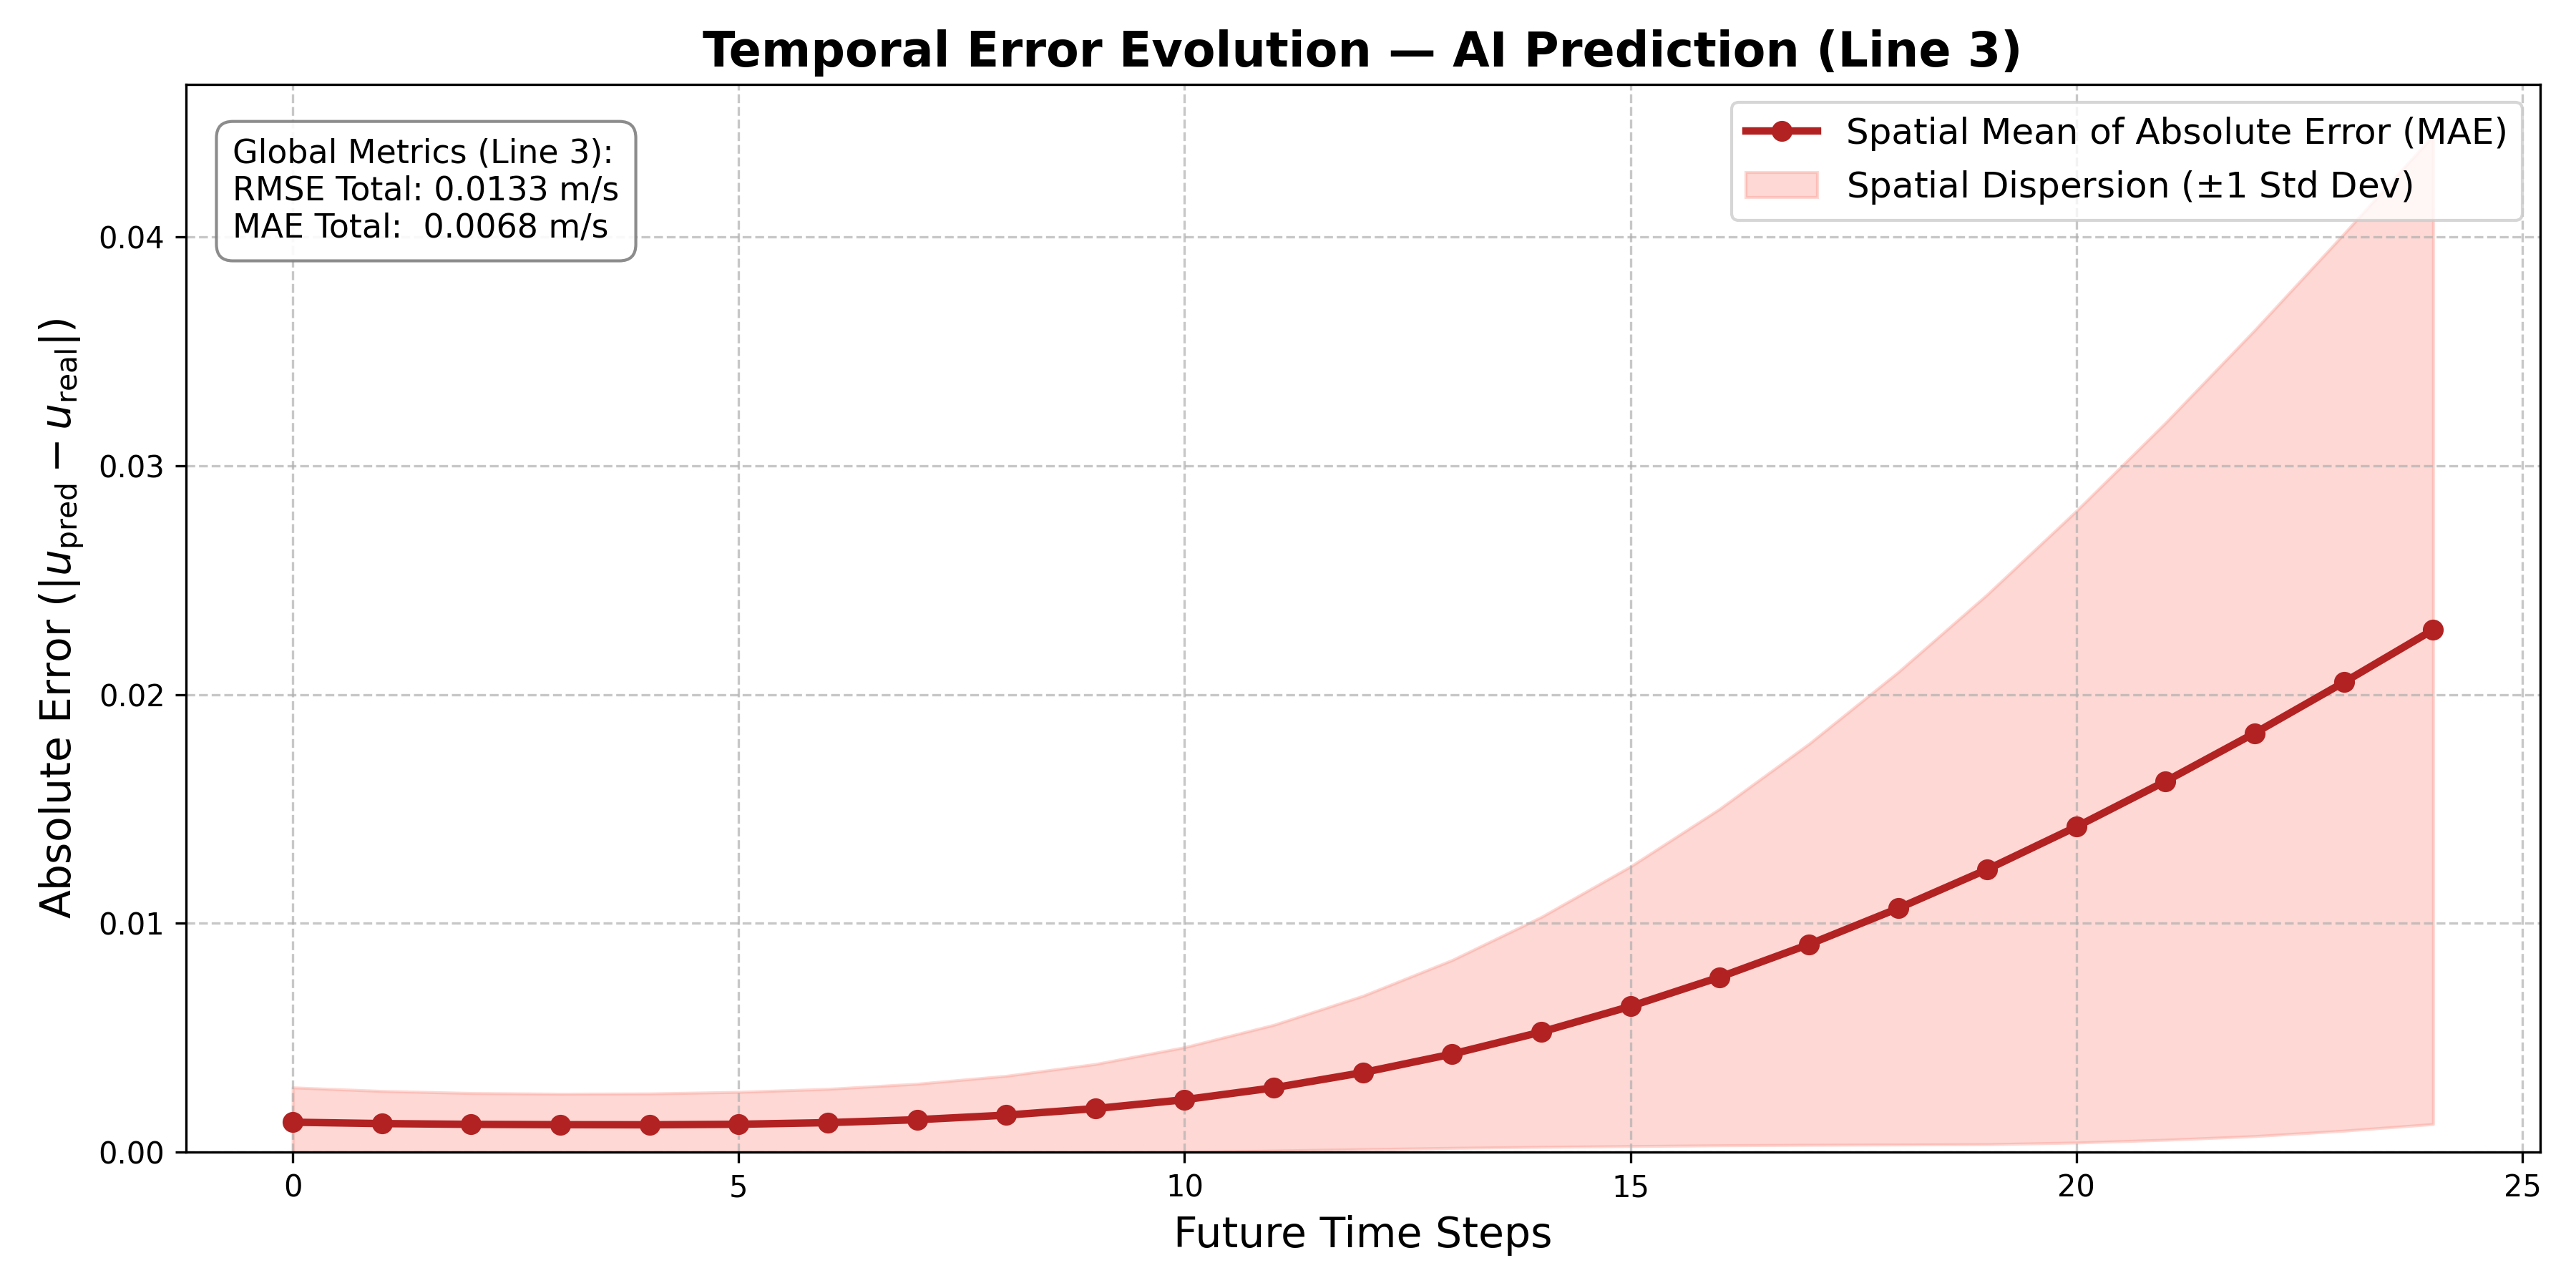
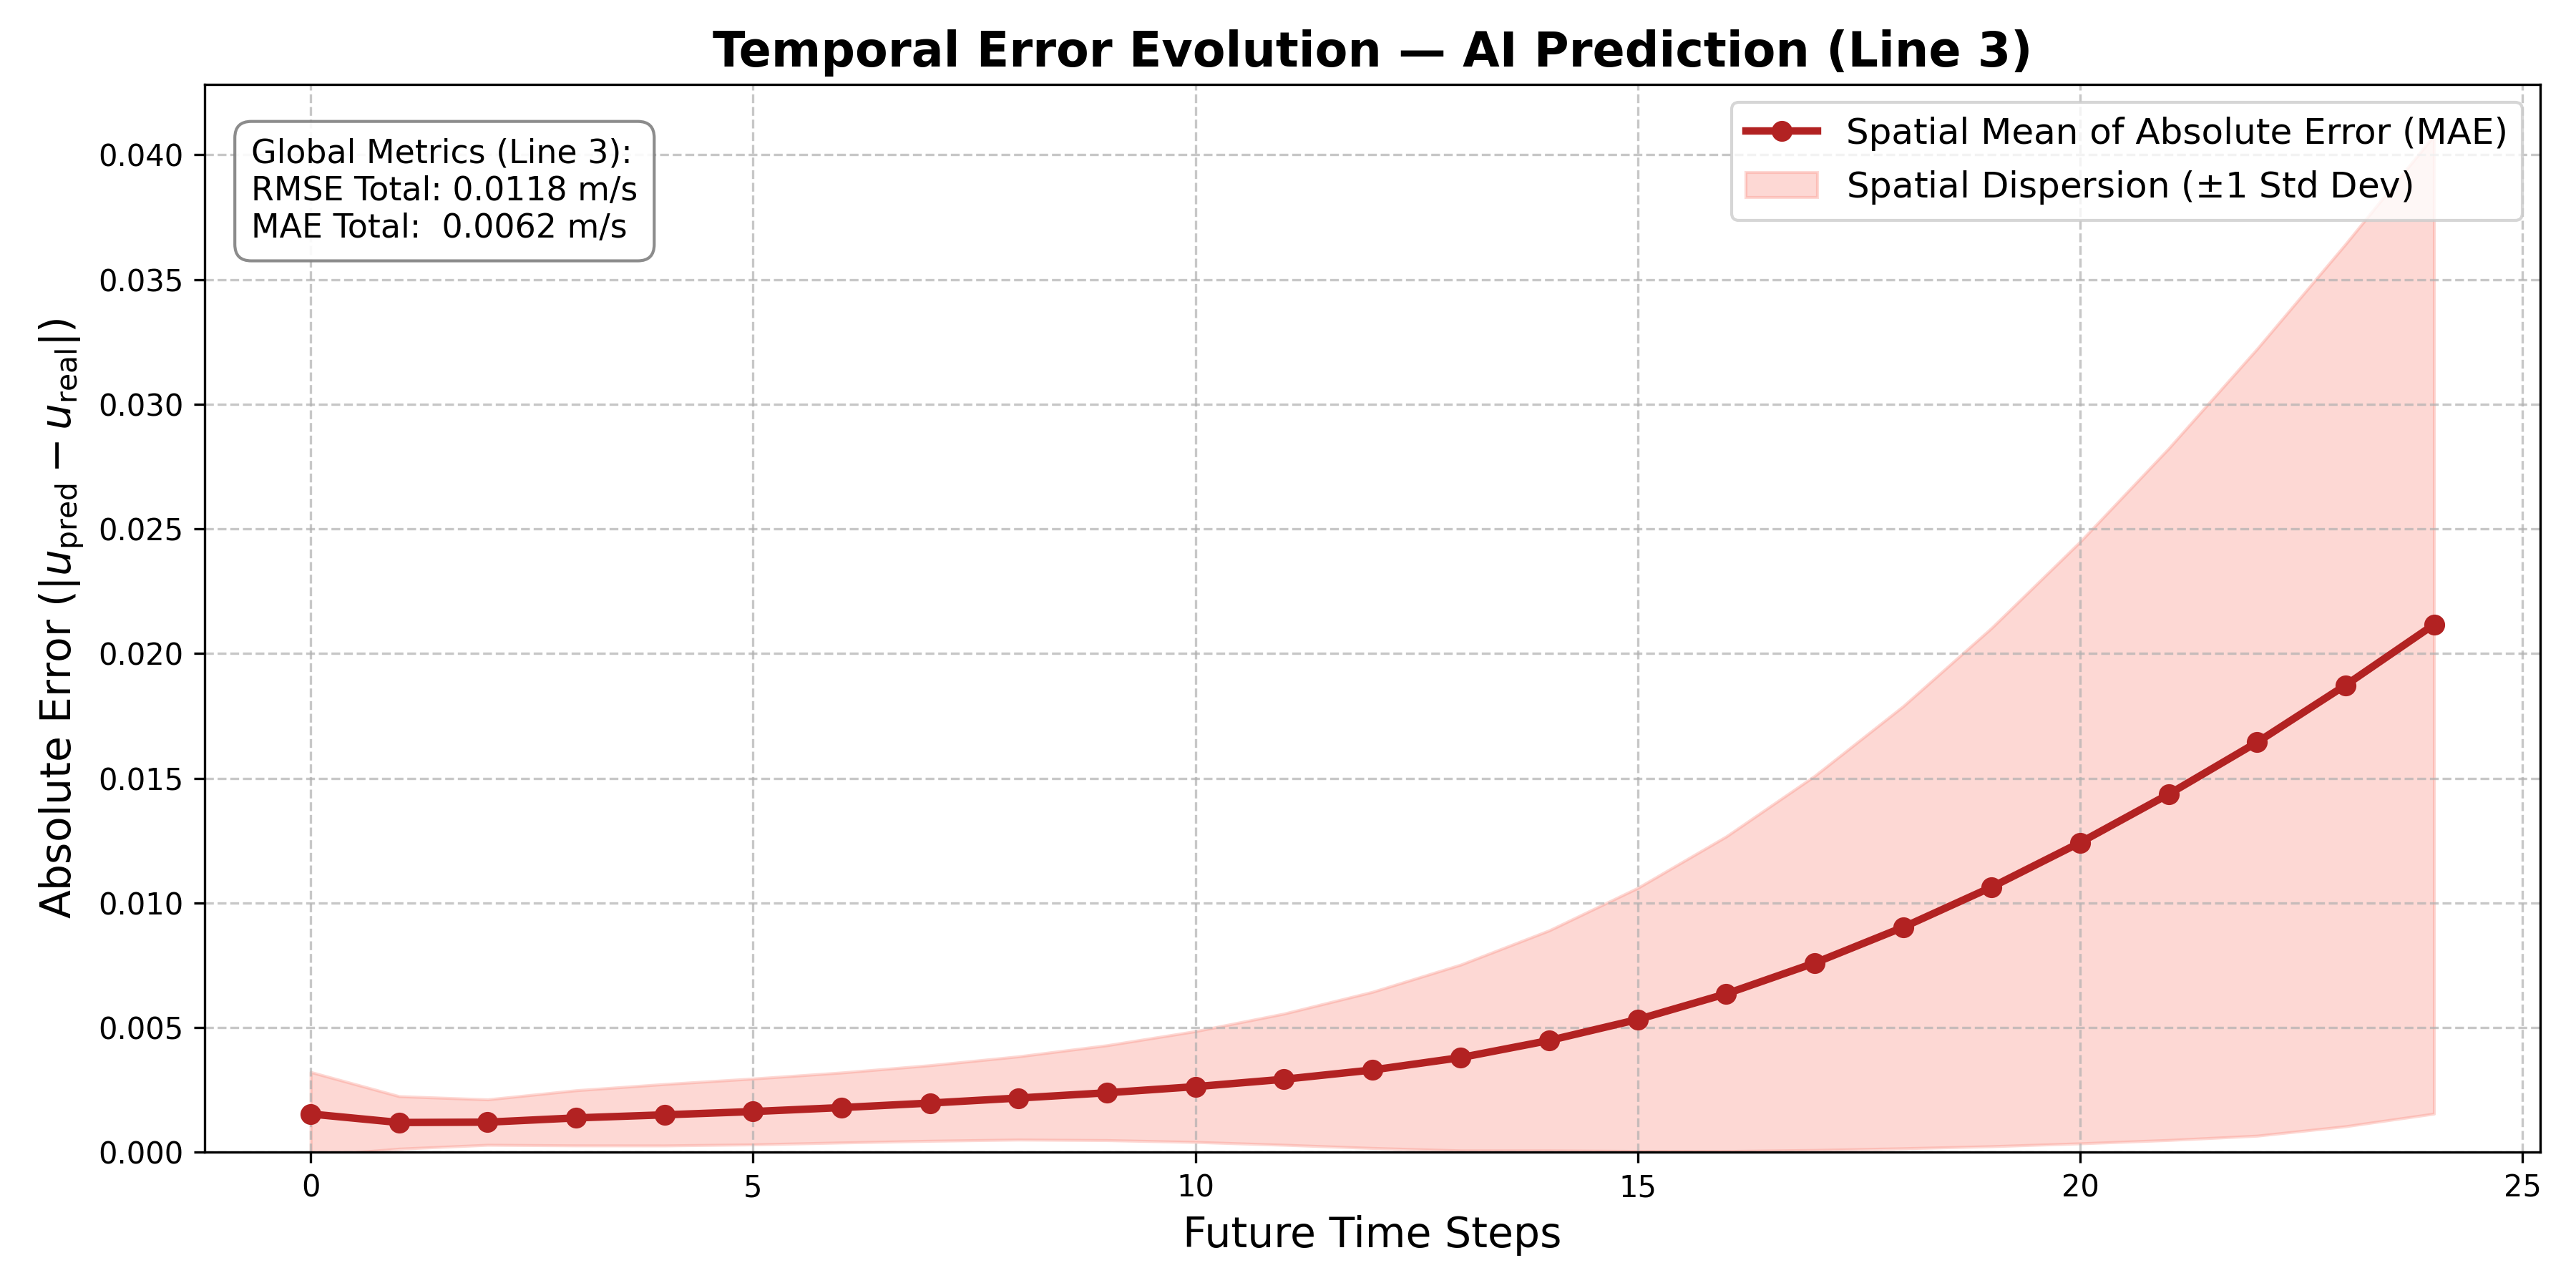
Actualizado

diff --git a/codigo/generar_figuras_LSTMv3.py b/codigo/generar_figuras_LSTMv3.py
@@ -1,0 +1,306 @@
+import h5py as h5
+import numpy as np
+import time
+import pandas as pd
+import os
+import json
+import pdb
+import torch
+import torch.nn as nn
+from torch.utils.data import TensorDataset, DataLoader 
+import os
+import gc  # <--- Importamos el recolector de basura
+import matplotlib.pyplot as plt
+
+ruta_carpeta_guardar = r"/home/antonio/Proyecto_Fluidos_AI/datos_procesados/run1proLSTM"
+ruta_maestra         = r"/home/antonio/Proyecto_Fluidos_AI/datos_procesados/process_data.h5"
+
+ruta_json = ruta_carpeta_guardar + "/hyperparams.json"
+with open(ruta_json, 'r') as f:
+    meta = json.load(f)
+
+features_totales_in   = meta['input_size']
+features_totales_out  = meta['output_size']
+num_lstmlayers  = meta['num_lstmlayers']
+lstm_hidden_size = meta['hidden_size']
+learning_rate = meta['learning_rate']
+linea_idy=     2
+
+
+
+
+# 1. Definimos las dimensiones (Solo canal U)
+canales = 1 
+
+
+# 2. Construcción de la Red Neuronal
+class FluidoLSTM_Seq2Seq(nn.Module):
+    def __init__(self, hidden_size=256, num_lstmlayers=3, output_size=25, dropout=0.2):
+        super(FluidoLSTM_Seq2Seq, self).__init__()
+        self.output_size = output_size
+        
+        # ENCODER: Procesa la historia pasada (los 250 pasos)
+        self.encoder = nn.LSTM(input_size=1, 
+                               hidden_size=hidden_size, 
+                               num_layers=num_lstmlayers, 
+                               batch_first=True, 
+                               dropout=dropout)
+        
+        # DECODER: Genera el futuro paso a paso
+        self.decoder = nn.LSTM(input_size=1, 
+                               hidden_size=hidden_size, 
+                               num_layers=num_lstmlayers, 
+                               batch_first=True, 
+                               dropout=dropout)
+        
+        # Capa lineal que convierte la salida del decoder en la velocidad predicha (1 solo valor)
+        self.linear = nn.Linear(hidden_size, 1)
+
+    def forward(self, x):
+        # x: (batch_size, 250)
+        x = x.unsqueeze(-1) # -> (batch_size, 250, 1)
+        
+        # 1. El Encoder lee el pasado. 
+        # No nos importa el 'encoder_out', solo queremos sus memorias finales (hidden, cell)
+        _, (hidden, cell) = self.encoder(x)
+        
+        # 2. El primer input para el Decoder es el ÚLTIMO valor conocido de 'x' (el paso 250)
+        decoder_input = x[:, -1, :].unsqueeze(1) # -> (batch_size, 1, 1)
+        
+        predicciones = []
+        
+        # 3. Bucle Autoregresivo: Predecimos los 25 pasos en cadena
+        for _ in range(self.output_size):
+            # El Decoder usa el input actual y las memorias (hidden, cell)
+            decoder_out, (hidden, cell) = self.decoder(decoder_input, (hidden, cell))
+            
+            # Calculamos el valor exacto de la velocidad para ESTE timestep
+            pred_step = self.linear(decoder_out[:, 0, :]) # -> (batch_size, 1)
+            
+            # Lo guardamos en nuestra lista
+            predicciones.append(pred_step)
+            
+            # 🔥 MAGIA: La predicción actual se convierte en el input para predecir el siguiente paso
+            decoder_input = pred_step.unsqueeze(1) # -> (batch_size, 1, 1)
+            
+        # Concatenamos todas las predicciones en un solo tensor: (batch_size, 25)
+        out = torch.cat(predicciones, dim=1)
+        return out       
+
+
+# ==========================================
+# FASE DE INFERENCIA: PREDICCIÓN
+# ==========================================
+
+device = torch.device("cuda" if torch.cuda.is_available() else "cpu")
+print(f"Dispositivo para inferencia: {device}")
+
+# Definición de canales
+linea_objetivo = int(linea_idy)+1               # La línea que el modelo todavía no ha visto en el pasado, pero debe predecir en el futuro
+
+ruta_modelo_campeon = ruta_carpeta_guardar + "/mejor_modelo_ia.pt"
+ruta_stats          = r"/home/antonio/Proyecto_Fluidos_AI/codigo/norm_stats_pro1.pt"
+
+
+# ==========================================
+# 1. CARGAR ESTADÍSTICAS Y MODELO
+# ==========================================
+print("Cargando estadísticas y modelo...")
+stats    = torch.load(ruta_stats, weights_only=False)
+media_X  = stats['media']
+std_X    = stats['std']
+
+# ⚠️ Re-instanciamos con dropout_rate para que los pesos carguen sin errores de forma.
+#    Coincide con el dropout_rate usado en el entrenamiento.
+modelo_inf = FluidoLSTM_Seq2Seq(hidden_size=lstm_hidden_size,
+                    num_lstmlayers=num_lstmlayers,
+                    output_size=features_totales_out)
+
+checkpoint_completo = torch.load(ruta_modelo_campeon, weights_only=False)
+modelo_inf.load_state_dict(checkpoint_completo['model_state_dict'])
+modelo_inf.to(device)
+modelo_inf.eval()   # 🔴 MODO EXAMEN: APAGAR DROPOUT
+
+
+# ==========================================
+# 2. CARGAR DATOS (VERSIÓN LSTM MONOCANAL)
+# ==========================================
+print("Extrayendo línea objetivo del disco...")
+with h5.File(ruta_maestra, 'r') as f:
+    # El LSTM solo necesita UNA línea → resultado es 2D: (T, N_pts)
+    matriz_final_test = f['data_analisis']['u_fluc'][:, linea_objetivo, :]
+
+N_pts = matriz_final_test.shape[1]
+print(f"   -> Datos listos. Forma: {matriz_final_test.shape}")  # (T, N_pts)
+
+instante_base = 5000
+
+# ── Entrada: (seq_len, N_pts) ──
+X_test_raw  = matriz_final_test[instante_base - features_totales_in : instante_base, :]
+
+# ── Objetivo: (pred_len, N_pts) ──
+y_test_real = matriz_final_test[instante_base : instante_base + features_totales_out, :]
+
+# Normalizar y transponer a (N_pts, seq_len) para el LSTM
+X_test_norm   = (X_test_raw - media_X) / std_X      # (seq_len, N_pts)
+X_test_norm_T = X_test_norm.T                        # (N_pts, seq_len)  ← solo .T, no .transpose(2,0,1)
+X_tensor      = torch.tensor(X_test_norm_T, dtype=torch.float32).to(device)
+
+
+# ==========================================
+# 3. PREDICCIÓN POR LOTES
+# ==========================================
+print("Prediciendo todos los puntos espaciales por lotes...")
+inicio      = time.time()
+tamano_lote = 500
+
+predicciones = []
+with torch.no_grad():
+    for i in range(0, X_tensor.shape[0], tamano_lote):
+        y_batch = modelo_inf(X_tensor[i : i + tamano_lote])  # (batch, pred_len)
+        predicciones.append(y_batch)
+
+y_pred_norm  = torch.cat(predicciones, dim=0)        # (N_pts, pred_len)
+y_pred_numpy = y_pred_norm.cpu().numpy()             # (N_pts, pred_len)  ← sin squeeze
+y_pred_real  = (y_pred_numpy * std_X) + media_X     # (N_pts, pred_len)
+y_pred_real  = y_pred_real.T 
+
+
+# ==========================================
+# FIG 1: SERIE TEMPORAL (CORREGIDA CON OFFSET Y LÍNEA 6)
+# ==========================================
+punto_espacial = 0
+pasado_objetivo = matriz_final_test[instante_base - 100 : instante_base, punto_espacial]  # ✓ ya es 2D
+
+# 🚨 CORRECCIÓN 2: Corrector de Offset (Post-procesado CFD)
+# Forzamos a la IA a empezar exactamente donde terminó el pasado real.
+# Esto nos permite aislar y evaluar la forma de la turbulencia pura.
+offset_inicial = y_pred_real[0, punto_espacial] - pasado_objetivo[-1]
+pred_alineada = y_pred_real[:, punto_espacial] - offset_inicial
+
+# Recalculamos las métricas con la curva alineada para ver el rendimiento real de la fluctuación
+mse_test  = np.mean((y_test_real[:, punto_espacial] - pred_alineada)**2)
+rmse_test = np.sqrt(mse_test)
+mae_test  = np.mean(np.abs(y_test_real[:, punto_espacial] - pred_alineada))
+
+plt.figure(1, figsize=(12, 6))
+plt.clf()
+
+# 1. El Pasado Real (Oculto a la IA, pero vital para la vista)
+plt.plot(range(-100, 0), pasado_objetivo, 'k-',
+         label=f'Real Past — Line {linea_objetivo} (Hidden from AI)', linewidth=2)
+
+# 2. El Futuro Real
+plt.plot(range(features_totales_out), y_test_real[:, punto_espacial], 'g-o',
+         label=f'Real Future — Line {linea_objetivo} (Ground Truth)', linewidth=2)
+
+# 3. La Predicción de la IA (Alineada)
+plt.plot(range(features_totales_out), pred_alineada, 'r--s',
+         label=f'AI Prediction (Offset Corrected)', linewidth=2)
+
+plt.gca().text(
+    0.02, 0.95,
+    f"Metrics (Offset Corrected):\nMSE:  {mse_test:.6f}\nRMSE: {rmse_test:.4f} m/s\nMAE:  {mae_test:.4f} m/s",
+    transform=plt.gca().transAxes, fontsize=11, verticalalignment='top',
+    bbox=dict(boxstyle='round,pad=0.5', facecolor='white', alpha=0.9, edgecolor='gray'))
+
+plt.axvline(0, color='gray', linestyle='--', alpha=0.7)
+plt.title(f'Zero-Shot Prediction — Line {linea_objetivo} (Point {punto_espacial})', fontsize=16)
+plt.xlabel('Time Steps', fontsize=14)
+plt.ylabel('Velocity Fluctuation ($u$)', fontsize=14)
+plt.legend(loc='upper right', fontsize=12)
+plt.grid(True, linestyle=':', alpha=0.6)
+plt.tight_layout()
+plt.savefig(ruta_carpeta_guardar + '/fig1.png', dpi=300)
+
+
+# ==========================================
+# FIG 2: PREDICCIÓN DIRECTA (CORREGIDA CON OFFSET)
+# (Sustituye también la figura 3 si la estabas usando)
+# ==========================================
+instante_objetivo = 4950
+punto_espacial    = 0
+
+print(f"Predicción directa {features_totales_out} pasos desde el instante {instante_objetivo}...")
+
+
+pasado_raw_mc  = matriz_final_test[instante_objetivo - features_totales_in : instante_objetivo, punto_espacial]
+# shape: (seq_len,)
+pasado_objetivo_150 = matriz_final_test[instante_objetivo - 150 : instante_objetivo, punto_espacial]
+
+pasado_norm_mc = (pasado_raw_mc - media_X) / std_X
+x_tensor = torch.tensor(pasado_norm_mc, dtype=torch.float32).unsqueeze(0).to(device)  # (1, seq_len) ✓
+
+with torch.no_grad():
+    pred_norm = modelo_inf(x_tensor)                          # (1, pred_len)
+
+pred_real = (pred_norm.squeeze(0).cpu().numpy() * std_X) + media_X  # (pred_len,)
+
+# 🚨 Corrección de Offset para la Fig 2
+offset_fig2 = pred_real[0] - pasado_objetivo_150[-1]
+pred_alineada_fig2 = pred_real - offset_fig2
+
+futuro_real_raw = matriz_final_test[instante_objetivo : instante_objetivo + features_totales_out, punto_espacial]
+pasos_reales_disp = len(futuro_real_raw)
+
+plt.figure(2, figsize=(12, 6))
+plt.clf()
+plt.plot(range(-150, 0), pasado_objetivo_150, 'k-',
+         label=f'Real Past — Line {linea_objetivo}', linewidth=2)
+if pasos_reales_disp > 0:
+    plt.plot(range(pasos_reales_disp), futuro_real_raw, 'g-o',
+             label=f'Real Future — Line {linea_objetivo}', linewidth=2, alpha=0.6)
+plt.plot(range(features_totales_out), pred_alineada_fig2, 'r--s',
+         label='AI Prediction (Offset Corrected)', linewidth=2)
+plt.axvline(0, color='gray', linestyle='--', alpha=0.7)
+plt.title(f'LSTM Direct Prediction (Offset Corrected) at step {instante_objetivo}')
+plt.xlabel('Relative Time Steps', fontsize=14)
+plt.ylabel('Velocity Fluctuation ($u$)', fontsize=14)
+plt.legend(loc='best', fontsize=12)
+plt.grid(True, linestyle=':', alpha=0.6)
+plt.tight_layout()
+plt.savefig(ruta_carpeta_guardar + '/fig2.png', dpi=300)
+
+
+# ==========================================
+# FIG 3: EVOLUCIÓN TEMPORAL DEL ERROR ESPACIAL
+#   Para cada instante futuro: media y std del error absoluto
+#   calculados sobre todos los N_pts puntos espaciales.
+# ==========================================
+print("Calculando evolución temporal del error...")
+
+error_abs_mat = np.abs(y_test_real - y_pred_real)   # (features_totales_out, N_pts)
+error_medio   = np.mean(error_abs_mat, axis=1)       # (features_totales_out,)
+std_error     = np.std(error_abs_mat,  axis=1)       # (features_totales_out,)
+
+mse_global  = np.mean((y_test_real - y_pred_real)**2)
+rmse_global = np.sqrt(mse_global)
+mae_global  = np.mean(error_abs_mat)
+
+plt.figure(figsize=(12, 6))
+t_eje = range(features_totales_out)
+
+plt.plot(t_eje, error_medio, color='firebrick', linestyle='-', marker='o',
+         linewidth=2.5, label='Spatial Mean of Absolute Error (MAE)')
+plt.fill_between(t_eje,
+                 error_medio - std_error,
+                 error_medio + std_error,
+                 color='salmon', alpha=0.3,
+                 label=r'Spatial Dispersion ($\pm1$ Std Dev)')
+
+plt.gca().text(
+    0.02, 0.95,
+    f"Global Metrics (Line {linea_objetivo}):\nRMSE Total: {rmse_global:.4f} m/s\nMAE Total:  {mae_global:.4f} m/s",
+    transform=plt.gca().transAxes, fontsize=11, verticalalignment='top',
+    bbox=dict(boxstyle='round,pad=0.5', facecolor='white', alpha=0.9, edgecolor='gray'))
+
+plt.title(f'Temporal Error Evolution — AI Prediction (Line {linea_objetivo})', fontsize=16, fontweight='bold')
+plt.xlabel('Future Time Steps', fontsize=14)
+plt.ylabel(r'Absolute Error ($|u_{\rm pred} - u_{\rm real}|$)', fontsize=14)
+plt.ylim(bottom=0)
+plt.legend(loc='upper right', fontsize=12)
+plt.grid(True, linestyle='--', alpha=0.7)
+plt.tight_layout()
+plt.savefig(ruta_carpeta_guardar + '/fig3.png', dpi=300)
+
+print("✅ Todas las figuras guardadas correctamente.")